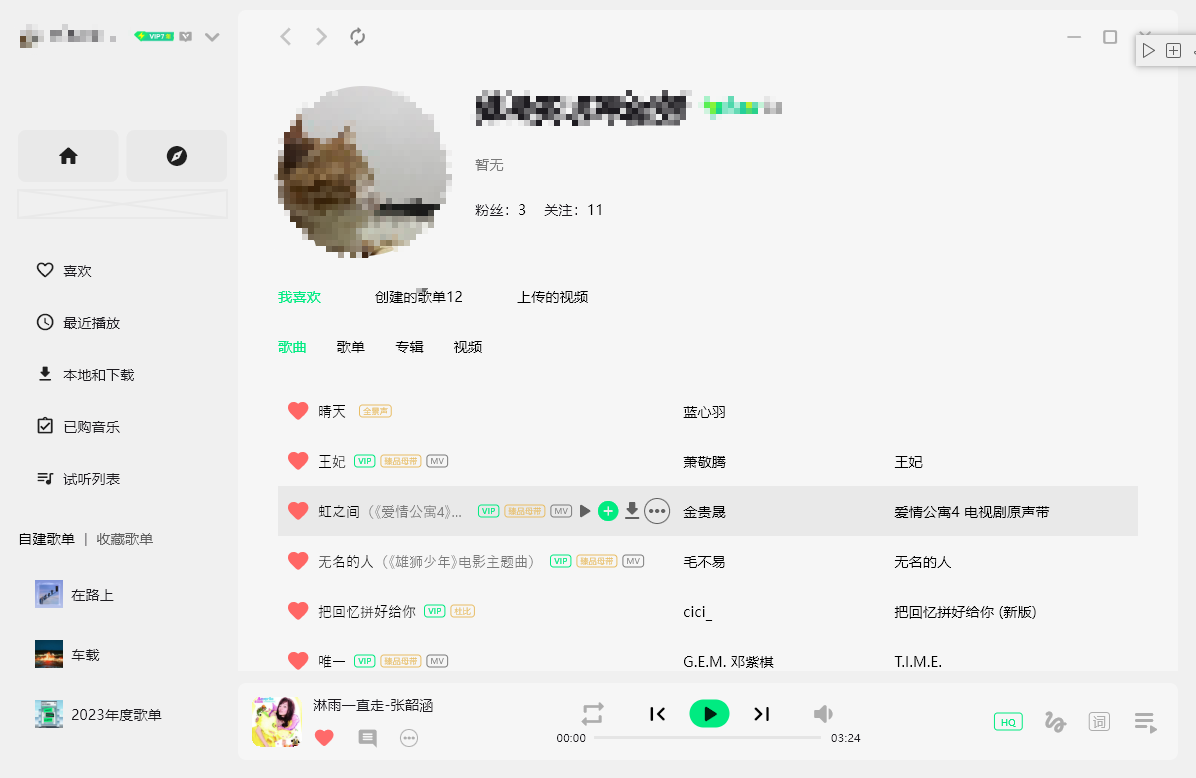
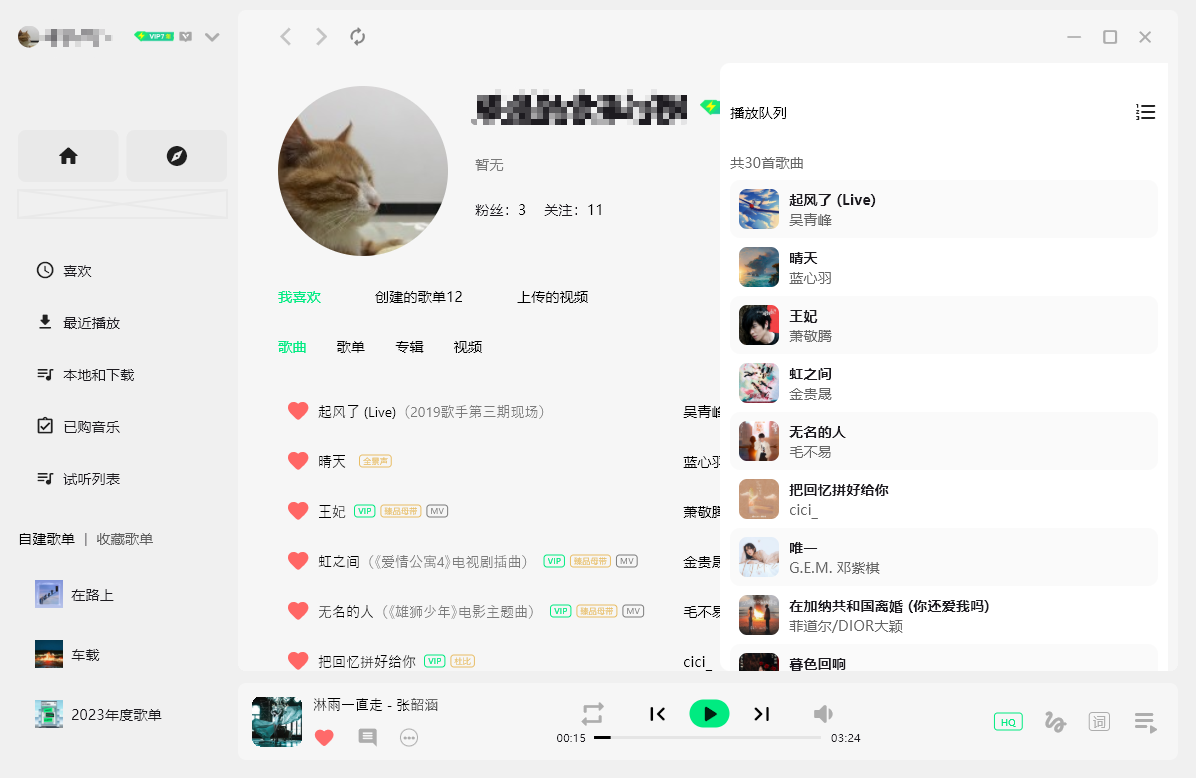
style: 更新界面图片

diff --git a/README.md b/README.md
@@ -2,7 +2,7 @@
 
 A new Flutter project.
 
-![界面](assets/images/image/Snipaste_2025-06-25_17-01-08.png)
+![界面](assets/images/image/image.png)
 
 ## Getting Started
 
